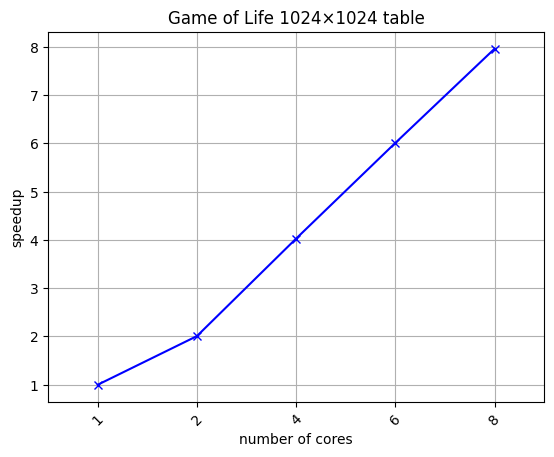
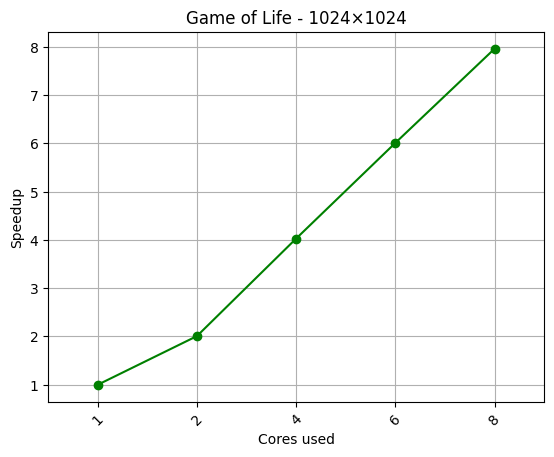
Changed plots.

diff --git a/Lab1/plot_outputs.py b/Lab1/plot_outputs.py
@@ -41,66 +41,66 @@ print(s_4096)
 
 fig, ax = plt.subplots()
 ax.grid(True)
-ax.set_xlabel("number of cores")
+ax.set_xlabel("Cores used")
 ax.xaxis.set_ticks(np.arange(0, 5, 1))
 ax.set_xticklabels(['1', '2', '4', '6', '8'], rotation=45)
 ax.set_xlim(-0.5, 4.5)
-ax.set_ylabel("time (ms)")
-plt.plot(t_64, label="Time", color="blue", marker='x')
-plt.title("Game of Life in 64×64 table")
+ax.set_ylabel("Time (s)")
+plt.plot(t_64, label="Time", color="green", marker='o')
+plt.title("Game of Life - 64x64")
 plt.savefig("plots/time/time_64.png", bbox_inches="tight")
 
 fig, ax = plt.subplots()
 ax.grid(True)
-ax.set_xlabel("number of cores")
+ax.set_xlabel("Cores used")
 ax.xaxis.set_ticks(np.arange(0, 5, 1))
 ax.set_xticklabels(['1', '2', '4', '6', '8'], rotation=45)
 ax.set_xlim(-0.5, 4.5)
-ax.set_ylabel("time (s)")
-plt.plot(t_1024, label="Time", color="blue", marker='x')
-plt.title("Game of Life 1024×1024 table")
+ax.set_ylabel("Time (s)")
+plt.plot(t_1024, label="Time", color="green", marker='o')
+plt.title("Game of Life - 1024×1024")
 plt.savefig("plots/time/time_1024.png", bbox_inches="tight")
 
 fig, ax = plt.subplots()
 ax.grid(True)
-ax.set_xlabel("number of cores")
+ax.set_xlabel("Cores used")
 ax.xaxis.set_ticks(np.arange(0, 5, 1))
 ax.set_xticklabels(['1', '2', '4', '6', '8'], rotation=45)
 ax.set_xlim(-0.5, 4.5)
-ax.set_ylabel("time (s)")
-plt.plot(t_4096, label="Time", color="blue", marker='x')
-plt.title("Game of Life 4096×4096 table")
+ax.set_ylabel("Time (s)")
+plt.plot(t_4096, label="Time", color="green", marker='o')
+plt.title("Game of Life - 4096×4096")
 plt.savefig("plots/time/time_4096.png", bbox_inches="tight")
 
 fig, ax = plt.subplots()
 ax.grid(True)
-ax.set_xlabel("number of cores")
+ax.set_xlabel("Cores used")
 ax.xaxis.set_ticks(np.arange(0, 5, 1))
 ax.set_xticklabels(['1', '2', '4', '6', '8'], rotation=45)
 ax.set_xlim(-0.5, 4.5)
-ax.set_ylabel("speedup")
-plt.plot(s_64, label="Speedup", color="blue", marker='x')
-plt.title("Game of Life in 64×64 table")
+ax.set_ylabel("Speedup")
+plt.plot(s_64, label="Speedup", color="green", marker='o')
+plt.title("Game of Life - 64×64")
 plt.savefig("plots/speedup/speedup_64.png", bbox_inches="tight")
 
 fig, ax = plt.subplots()
 ax.grid(True)
-ax.set_xlabel("number of cores")
+ax.set_xlabel("Cores used")
 ax.xaxis.set_ticks(np.arange(0, 5, 1))
 ax.set_xticklabels(['1', '2', '4', '6', '8'], rotation=45)
 ax.set_xlim(-0.5, 4.5)
-ax.set_ylabel("speedup")
-plt.plot(s_1024, label="Speedup", color="blue", marker='x')
-plt.title("Game of Life 1024×1024 table")
+ax.set_ylabel("Speedup")
+plt.plot(s_1024, label="Speedup", color="green", marker='o')
+plt.title("Game of Life - 1024×1024")
 plt.savefig("plots/speedup/speedup_1024.png", bbox_inches="tight")
 
 fig, ax = plt.subplots()
 ax.grid(True)
-ax.set_xlabel("number of cores")
+ax.set_xlabel("Cores used")
 ax.xaxis.set_ticks(np.arange(0, 5, 1))
 ax.set_xticklabels(['1', '2', '4', '6', '8'], rotation=45)
 ax.set_xlim(-0.5, 4.5)
-ax.set_ylabel("speedup")
-plt.plot(s_4096, label="Speedup", color="blue", marker='x')
-plt.title("Game of Life 4096×4096 table")
+ax.set_ylabel("Speedup")
+plt.plot(s_4096, label="Speedup", color="green", marker='o')
+plt.title("Game of Life - 4096×4096")
 plt.savefig("plots/speedup/speedup_4096.png", bbox_inches="tight")
